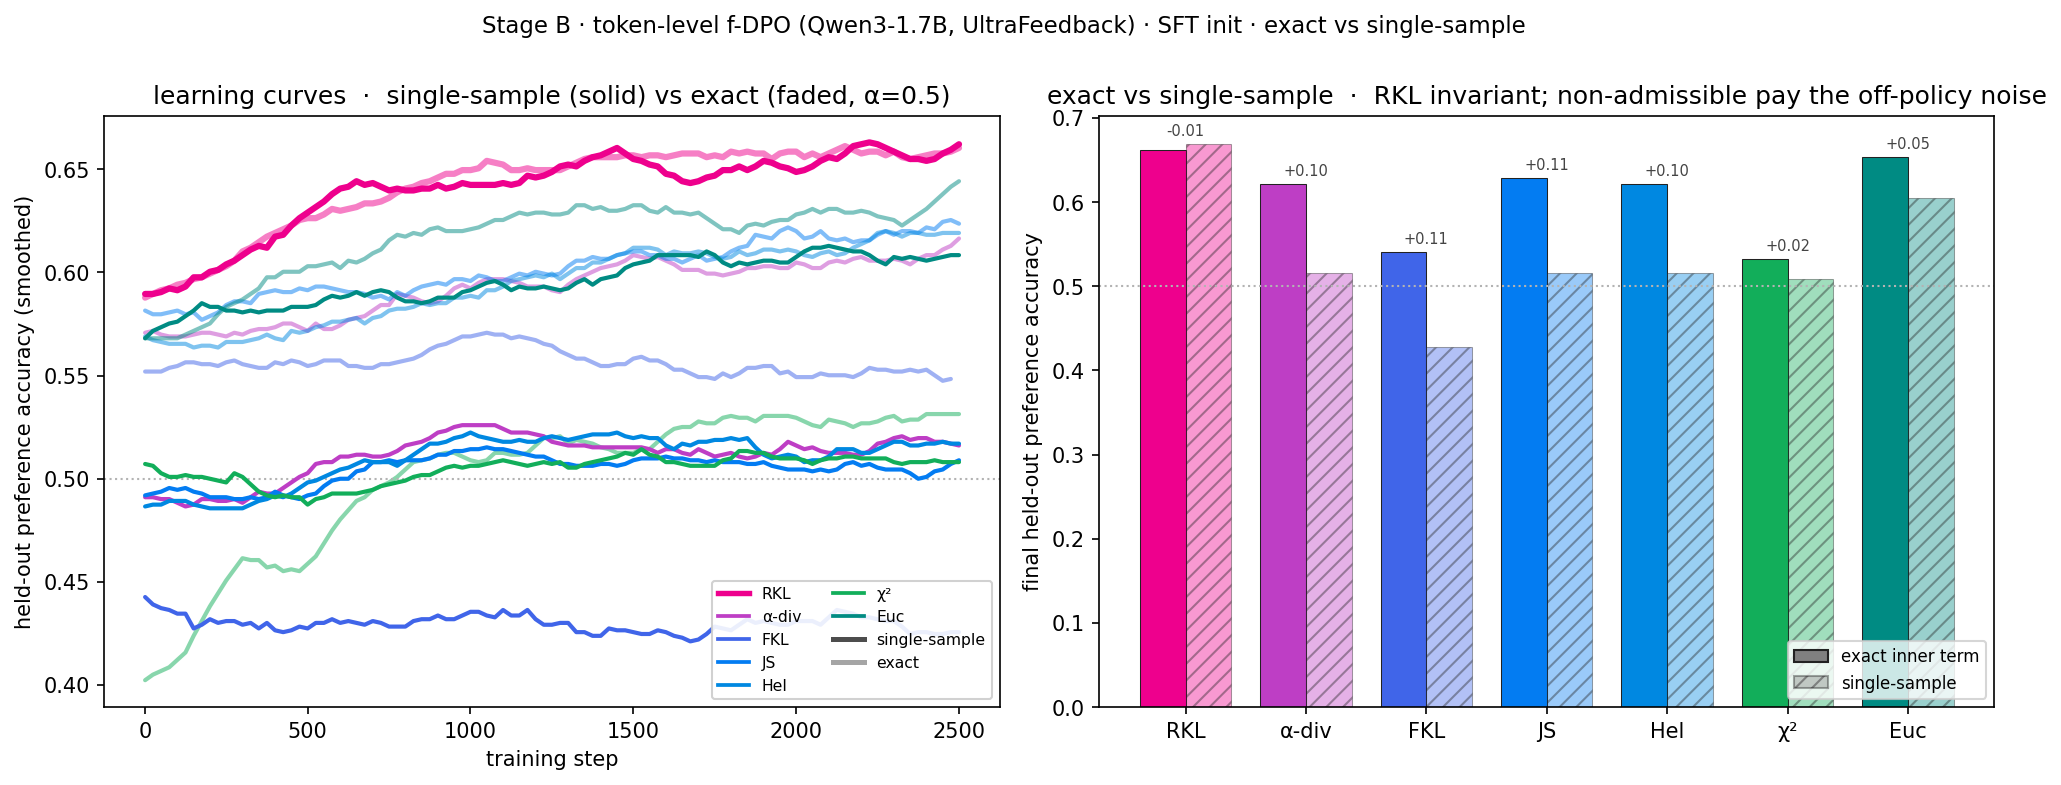
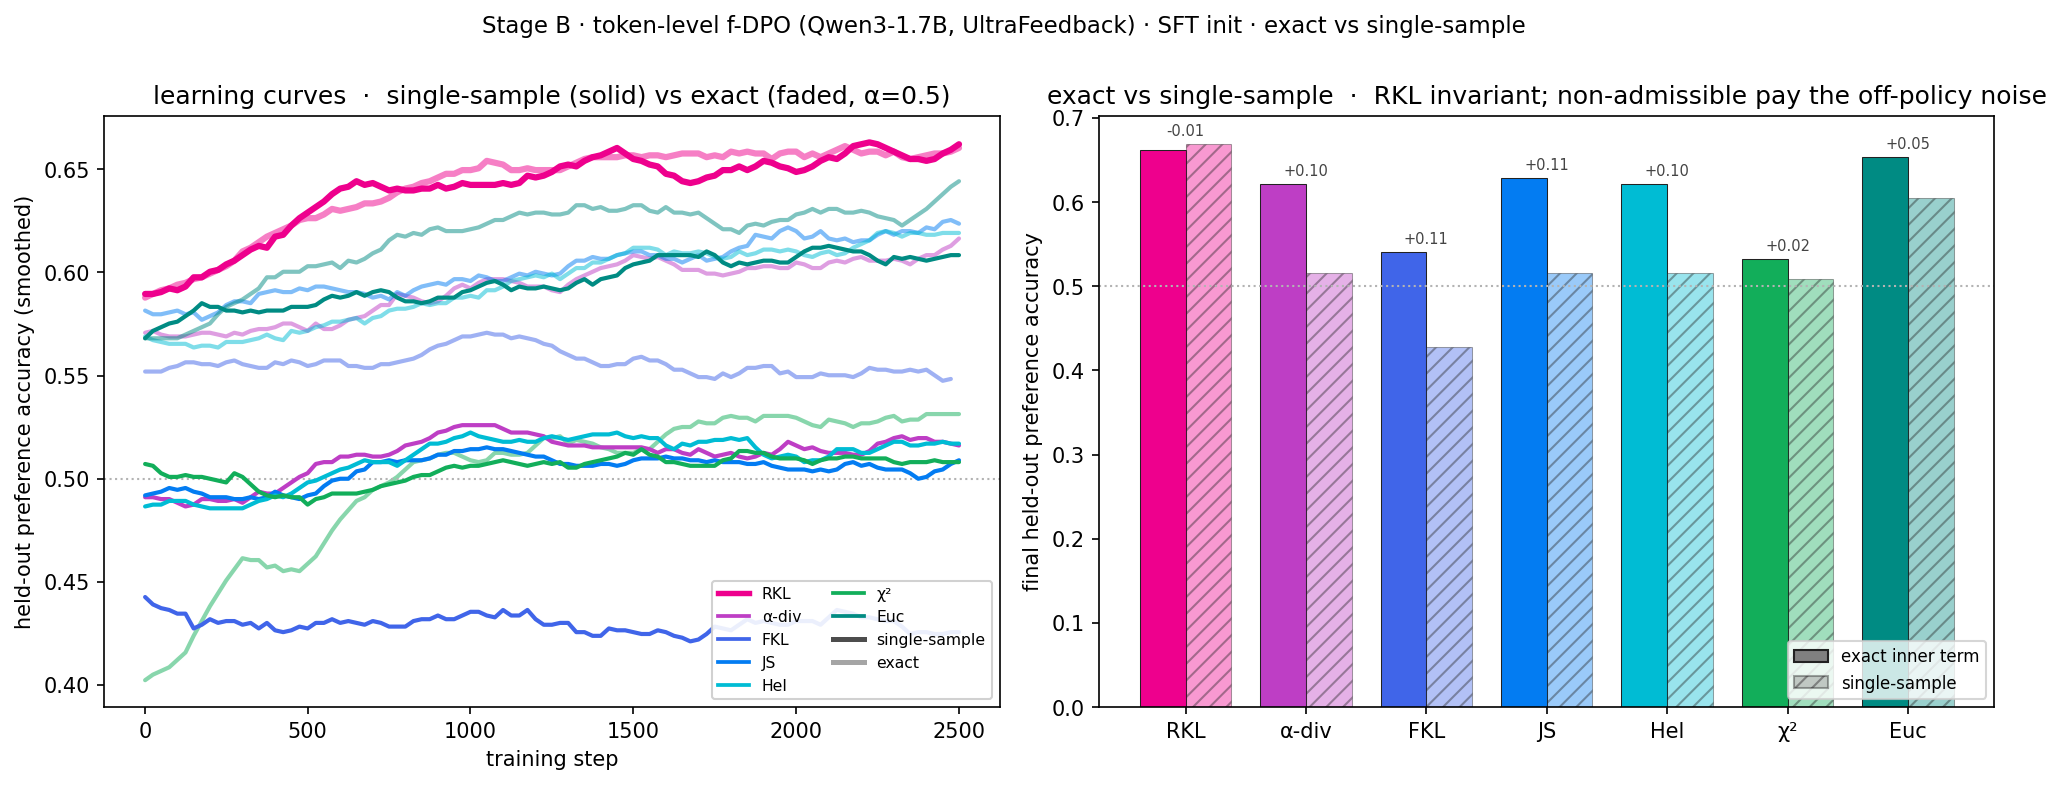
palette: Hel #0088E1 -> #00BCD4 (cyan, between JS-blue and chi2-green)
JS and Hel were both blues and hard to tell apart. Move Hel to a cyan sitting between
JS (#037CF2) and chi2 (#12AE5A), also distinct from euc teal (#008B83). Synced in both
regularizers.py (tabular) and divergences.py (LLM). Other figures pick it up on regen.

diff --git a/llm/divergences.py b/llm/divergences.py
@@ -24,7 +24,7 @@ KEYS = ["kl", "adiv", "rkl", "js", "hel", "chi2", "euc"]     # = tabular REGKEYS
 SHORT = {"kl": "RKL", "rkl": "FKL", "js": "JS", "hel": "Hel",
          "chi2": "χ²", "adiv": "α-div", "euc": "Euc"}
 COLORS = {"kl": "#EE008D", "adiv": "#BE3EC5", "rkl": "#4065E9", "js": "#037CF2",
-          "hel": "#0088E1", "chi2": "#12AE5A", "euc": "#008B83"}   # chi2 green: kept in sync with python/regularizers.py
+          "hel": "#00BCD4", "chi2": "#12AE5A", "euc": "#008B83"}   # chi2 green: kept in sync with python/regularizers.py
 DEFAULT_ADIV_A = 0.5
 LN2 = math.log(2.0)
 

diff --git a/python/regularizers.py b/python/regularizers.py
@@ -163,7 +163,7 @@ REGKEYS = ["kl", "adiv", "rkl", "js", "hel", "chi2", "euc"]
 # mathematically near-identical off-policy (both f(0⁺)=1 ⇒ Φ≈−1/u), so χ² is pulled to a distinct
 # green to tell the two coincident curves apart.
 COLORS = {"kl": "#EE008D", "adiv": "#BE3EC5", "rkl": "#4065E9", "js": "#037CF2",
-          "hel": "#0088E1", "chi2": "#12AE5A", "euc": "#008B83"}
+          "hel": "#00BCD4", "chi2": "#12AE5A", "euc": "#008B83"}
 SHORT = {"kl": "RKL", "adiv": "α-div", "rkl": "FKL", "js": "JS",
          "hel": "Hel", "chi2": "χ²", "euc": "Euc"}
 
